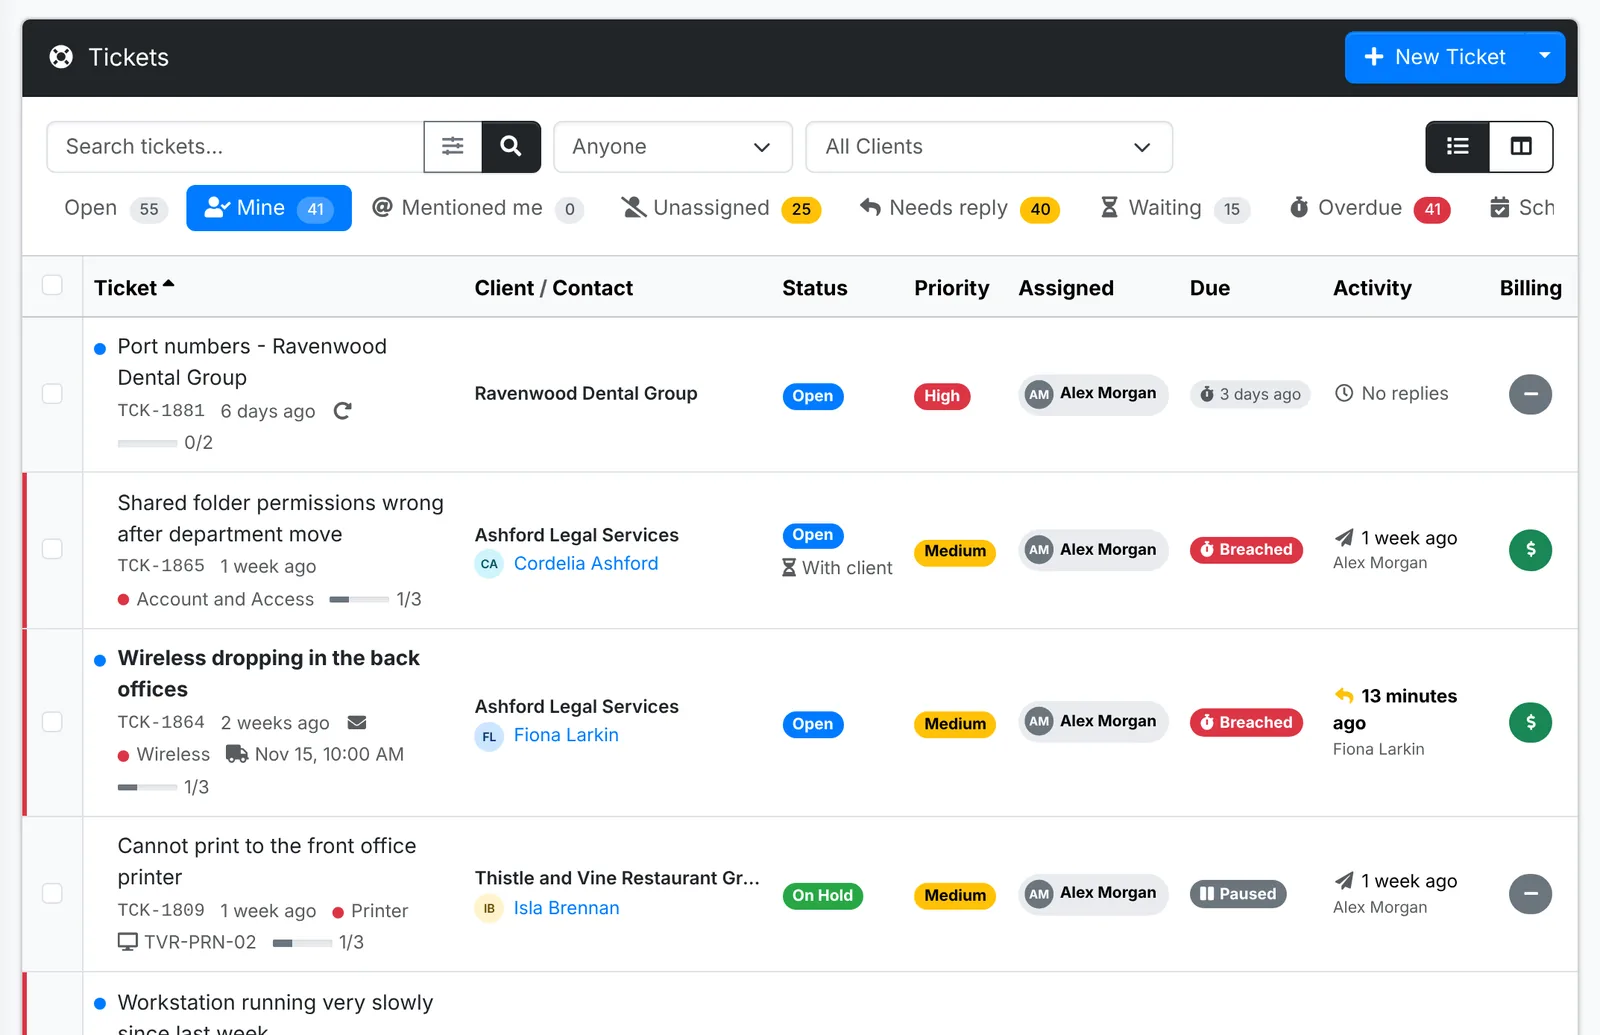
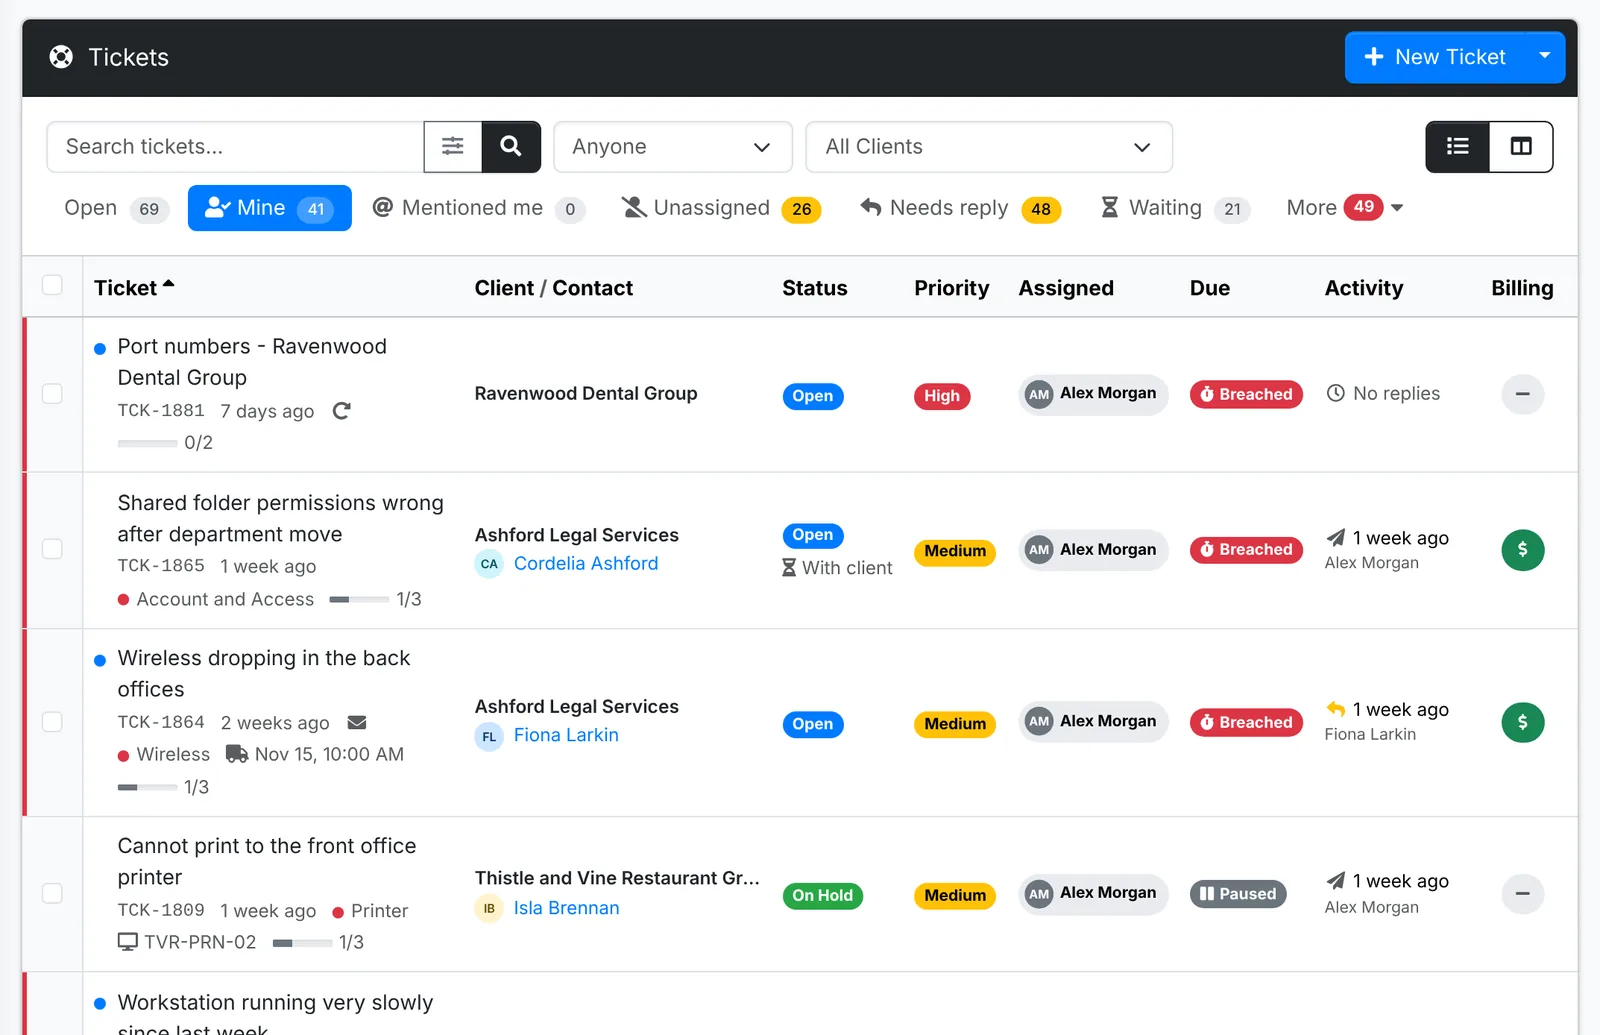
Docs: lists and tickets guides describe the More menu for tabs that do not fit, with the tickets list screenshot retaken

diff --git a/content/getting-started/lists.md b/content/getting-started/lists.md
@@ -10,7 +10,7 @@ Tickets, assets, invoices, credentials, expenses - every list in ITFlow is laid 
 
 ## Find what you're after
 
-- **Tabs** along the top split the list into the views you use most, each with a count: workstations and servers, open and closed tickets, unpaid and overdue invoices. The count follows your search and filters.
+- **Tabs** along the top split the list into the views you use most, each with a count: workstations and servers, open and closed tickets, unpaid and overdue invoices. The count follows your search and filters. Tabs that don't fit on a narrower screen go into **More** at the end - the tab you're on always stays out, and **More** shows a red or amber count when a tab in it needs attention, such as **Overdue**.
 - **Search** - the box on the left - searches just this list. Press <kbd>Enter</kbd> or click the magnifying glass.
 - **Filters** beside it narrow the list further: a client, a location, a status, a tag, a date range. Lists with many filters fold the extra ones under **More filters**, which opens with the page while one of them is set.
 - A filter that is on is tinted in the [theme](/admin/settings#theme) colour. The **×** at the end of the search box clears the search and every filter at once.

diff --git a/content/service-desk/tickets.md b/content/service-desk/tickets.md
@@ -26,6 +26,8 @@ The tabs along the top are the views you'll use most, each with a count:
 | **Closed** | Resolved and closed tickets |
 | **All** | Everything |
 
+When the views don't all fit across the screen, the last ones go into **More** - and **More** shows the Overdue count in red, or Unassigned and Needs reply in amber, when one of them is in there.
+
 Beside the search box, pick a technician (**Anyone**) or a client to narrow any view. The sliders button opens more filters: **Status**, **Priority**, **Category**, **Project**, **Tags**, **SLA**, **Billing** and when it was **Created**. Set ones open with the page, and the **×** at the end of the search box takes them all off.
 
 The search box finds tickets by number, subject, client, contact, asset or the vendor's reference.
